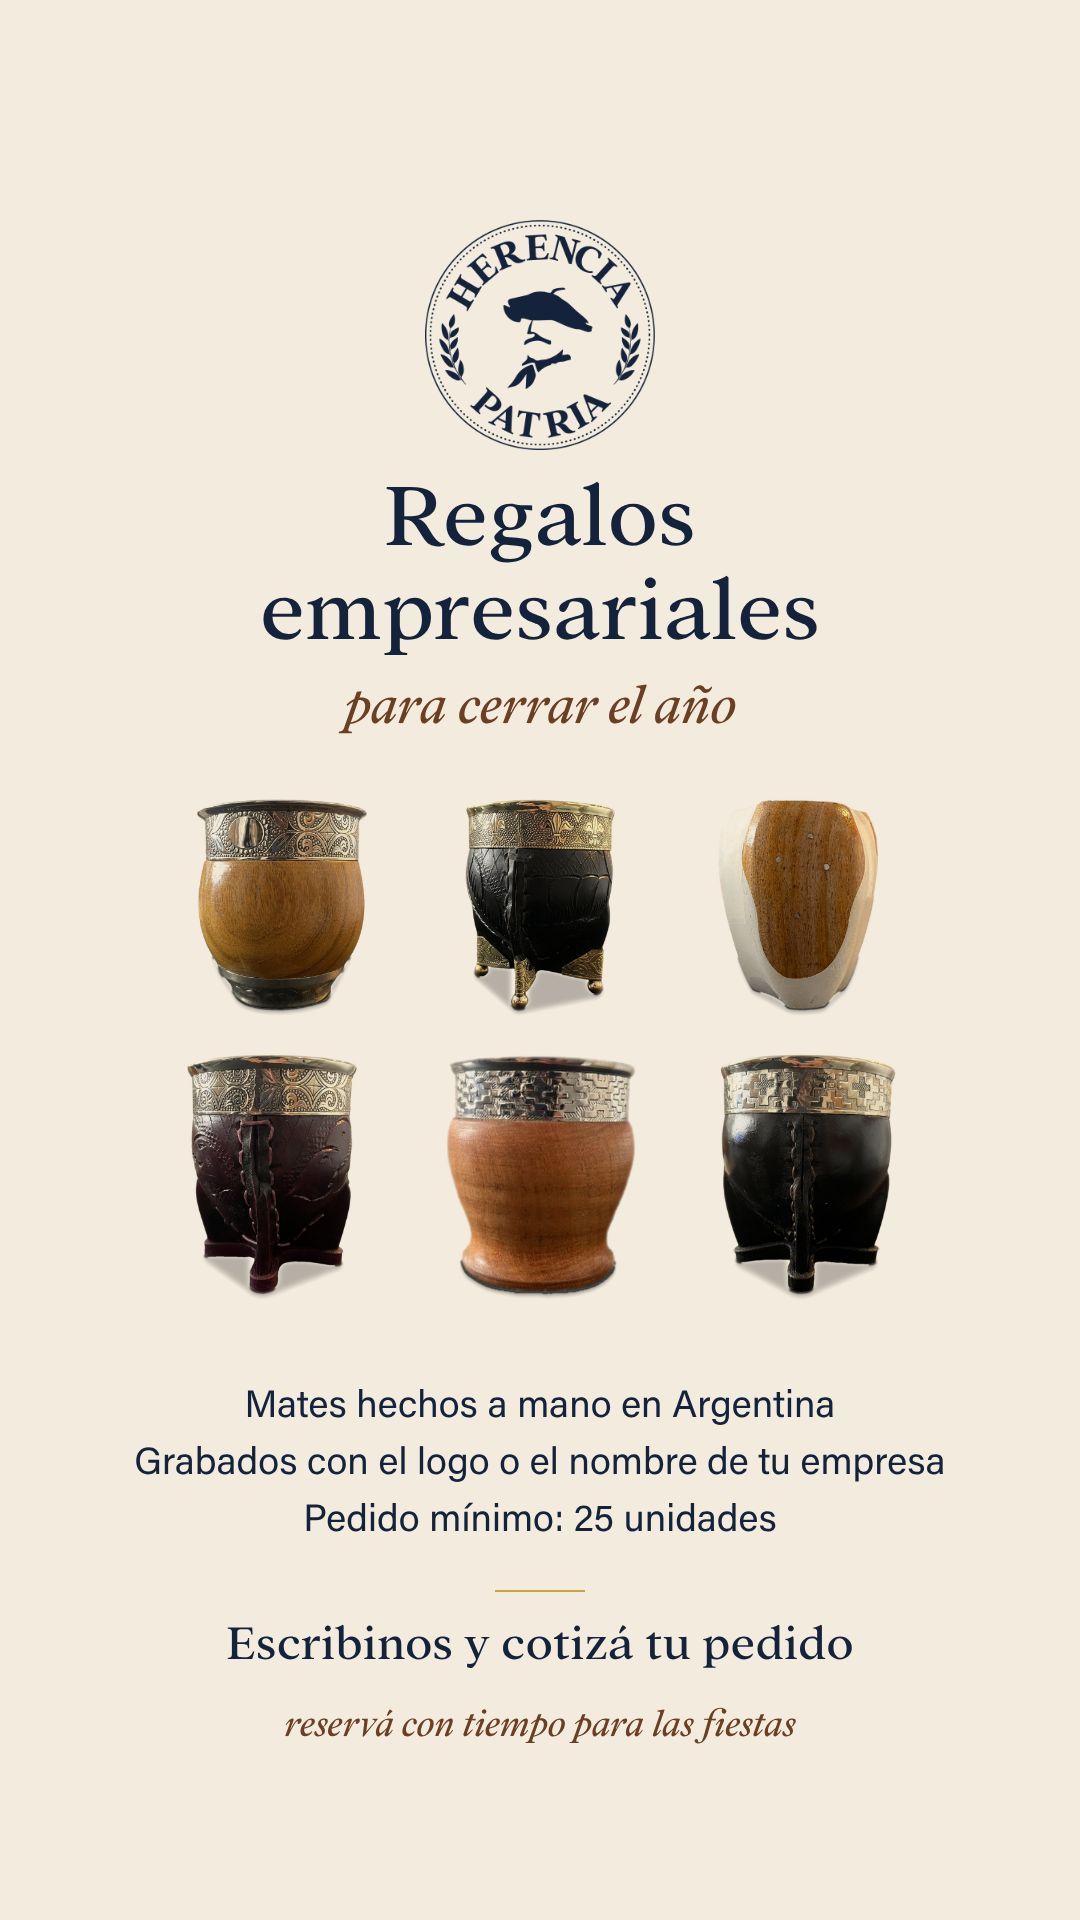
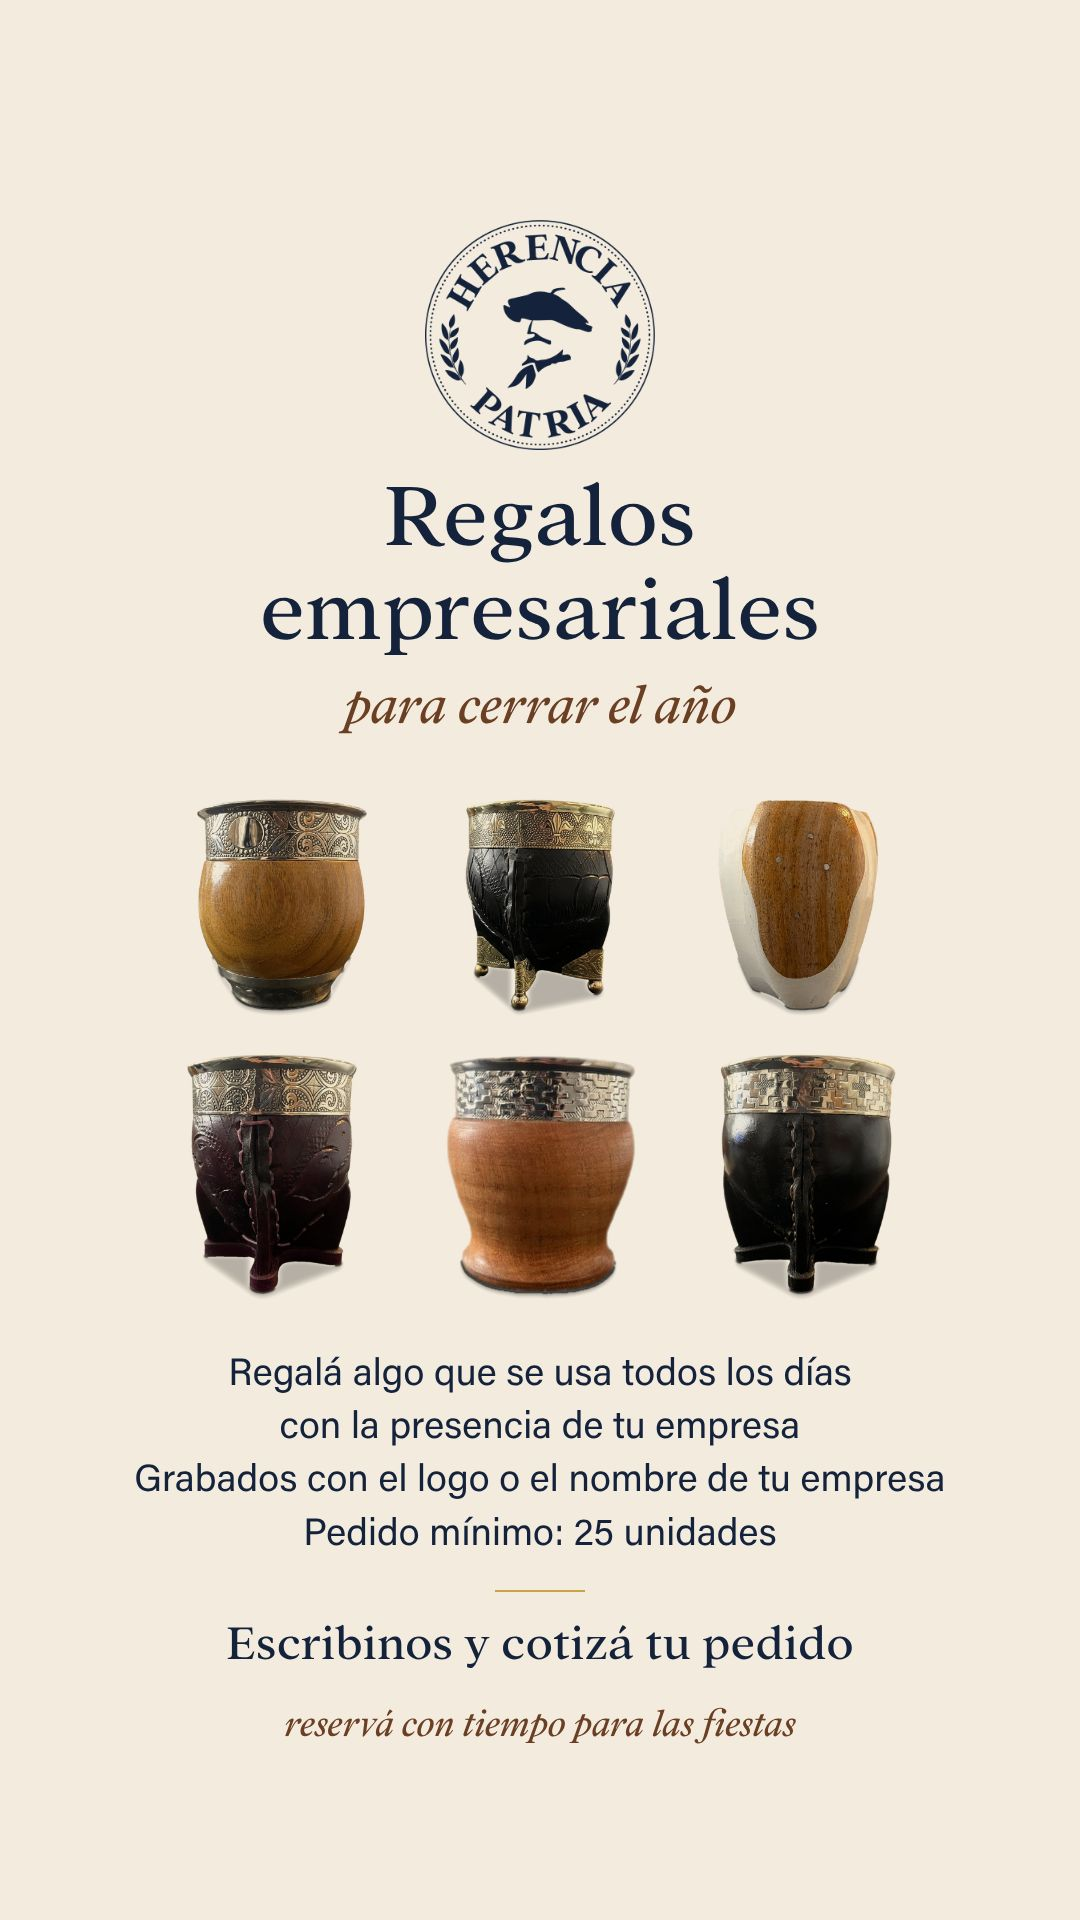
Historia empresarial: frase de regalo de uso diario en lugar de hecho a mano
Claude-Session: https://claude.ai/code/session_012H3xPSmbqKoMmc2aK7okNH

Changed region(s): [[0.1222, 0.6875, 0.8861, 0.8125]]

diff --git a/src/Root.tsx b/src/Root.tsx
@@ -411,7 +411,8 @@ export const RemotionRoot: React.FC = () => {
           titulo: ["Regalos", "empresariales"],
           bajada: "para cerrar el año",
           puntos: [
-            "Mates hechos a mano en Argentina",
+            "Regalá algo que se usa todos los días",
+            "con la presencia de tu empresa",
             "Grabados con el logo o el nombre de tu empresa",
             "Pedido mínimo: 25 unidades",
           ],

diff --git a/src/HerenciaPatria/HistoriaEmpresas.tsx b/src/HerenciaPatria/HistoriaEmpresas.tsx
@@ -89,12 +89,12 @@ export const HistoriaEmpresas: React.FC<{
       <div
         style={{
           position: "absolute",
-          top: 1380,
+          top: 1350,
           left: 90,
           right: 90,
           fontFamily: fonts.acumin,
           fontSize: 38,
-          lineHeight: 1.5,
+          lineHeight: 1.4,
           color: colors.azul,
         }}
       >
